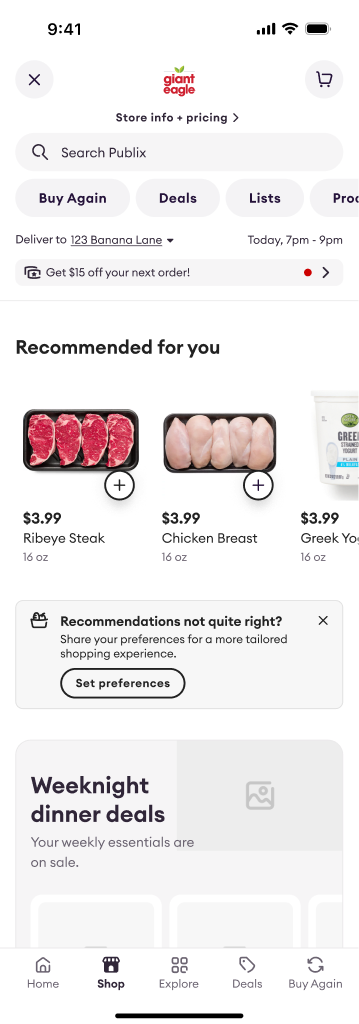
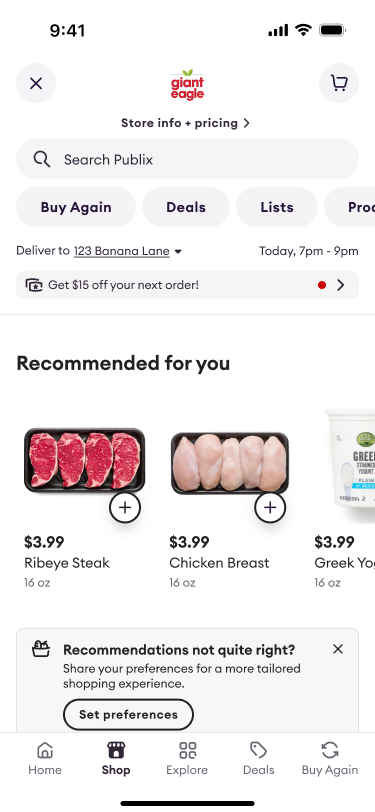
Sync with Figma: correct Toast component + home tab bar height

diff --git a/index.html b/index.html
@@ -43,7 +43,7 @@
   #home .home-scroll{position:absolute;inset:0;overflow-y:auto;}
   /* transparent hotspot over the real "Set preferences" button in home.png */
   .launch-hint{
-    position:absolute;left:57px;top:697px;width:142px;height:42px;
+    position:absolute;left:62px;top:698px;width:134px;height:36px;
     background:transparent;border:none;border-radius:400px;cursor:pointer;
   }
 
@@ -132,19 +132,23 @@
   .btn-ghost{background:transparent;color:#212121;}
   .btn-ghost:active{background:rgba(33,33,33,.06);}
 
-  /* toast */
+  /* toast (exact Figma component 735:185688) */
   .toast{
-    position:absolute;left:16px;right:16px;bottom:36px;
-    background:#212121;color:#fff;border-radius:12px;padding:14px 18px;
-    font-size:14px;font-weight:600;display:flex;align-items:center;gap:10px;
-    box-shadow:0 12px 30px rgba(0,0,0,.3);
-    opacity:0;transform:translateY(20px);pointer-events:none;transition:.3s;z-index:20;
+    position:absolute;left:16px;top:665px;width:343px;
+    background:#212121;border:1px solid rgba(33,33,33,0.1);
+    border-radius:8px;overflow:clip;
+    box-shadow:0 0 4px 0 rgba(0,0,0,.1), 0 6px 6px -4px rgba(0,0,0,.2);
+    opacity:0;transform:translateY(12px);pointer-events:none;transition:.3s;z-index:20;
   }
   .toast.show{opacity:1;transform:none;}
-  .toast .check{
-    width:22px;height:22px;border-radius:50%;background:#24cd6c;color:#0b3d1f;
-    display:flex;align-items:center;justify-content:center;font-size:13px;flex:0 0 auto;
-  }
+  .toast .toast-content{display:flex;gap:12px;align-items:center;padding:8px 12px;width:100%;}
+  .toast .icon{width:20px;height:20px;flex:0 0 auto;display:flex;align-items:center;justify-content:center;}
+  .toast .icon svg{width:16.67px;height:16.67px;display:block;}
+  .toast .txt{flex:1 1 0;min-width:0;display:flex;flex-direction:column;gap:2px;align-items:flex-start;}
+  .toast .txt .t1{font-family:var(--font);font-weight:600;font-size:16px;line-height:20px;color:#fff;}
+  .toast .txt .t2{font-family:var(--font);font-weight:400;font-size:14px;line-height:18px;color:#fff;}
+  .toast .close{width:20px;height:20px;flex:0 0 auto;color:#fff;background:transparent;border:none;padding:0;cursor:pointer;display:flex;align-items:center;justify-content:center;}
+  .toast .close svg{width:14px;height:14px;display:block;}
 
   .caption{color:#6a6a72;font-size:13px;font-family:var(--font);text-align:center;max-width:375px;}
   .caption b{color:#333;}
@@ -218,9 +222,20 @@
       </div>
     </section>
 
-    <!-- TOAST -->
+    <!-- TOAST (exact Figma component) -->
     <div class="toast" id="toast">
-      <span class="check">✓</span> Preferences saved
+      <div class="toast-content">
+        <span class="icon">
+          <svg viewBox="0 0 16.6667 16.6667" fill="none"><path fill-rule="evenodd" clip-rule="evenodd" d="M8.33333 16.6667C12.9357 16.6667 16.6667 12.9357 16.6667 8.33333C16.6667 3.73096 12.9357 0 8.33333 0C3.73096 0 0 3.73096 0 8.33333C0 12.9357 3.73096 16.6667 8.33333 16.6667ZM12.8406 6.72976C13.1823 6.38805 13.1823 5.83403 12.8406 5.49232C12.4989 5.15062 11.9449 5.15062 11.6032 5.49232L7.22188 9.87361L5.61838 8.2701C5.27667 7.92839 4.72265 7.92839 4.38094 8.2701C4.03923 8.61181 4.03923 9.16583 4.38094 9.50754L6.60316 11.7298C6.94487 12.0715 7.49889 12.0715 7.8406 11.7298L12.8406 6.72976Z" fill="#2FAD32"/></svg>
+        </span>
+        <span class="txt">
+          <span class="t1">Preferences saved</span>
+          <span class="t2">Changes can be made in your Account page</span>
+        </span>
+        <button class="close" aria-label="Dismiss" onclick="hideToast()">
+          <svg viewBox="0 0 20 20" fill="none"><path d="M4 4l12 12M16 4L4 16" stroke="currentColor" stroke-width="2" stroke-linecap="round"/></svg>
+        </button>
+      </div>
     </div>
   </div>
 
@@ -312,7 +327,12 @@
     goHome();
     const t = document.getElementById('toast');
     t.classList.add('show');
-    setTimeout(()=>t.classList.remove('show'), 2600);
+    clearTimeout(window.__toastTimer);
+    window.__toastTimer = setTimeout(hideToast, 4000);
+  }
+
+  function hideToast(){
+    document.getElementById('toast').classList.remove('show');
   }
 </script>
 </body>